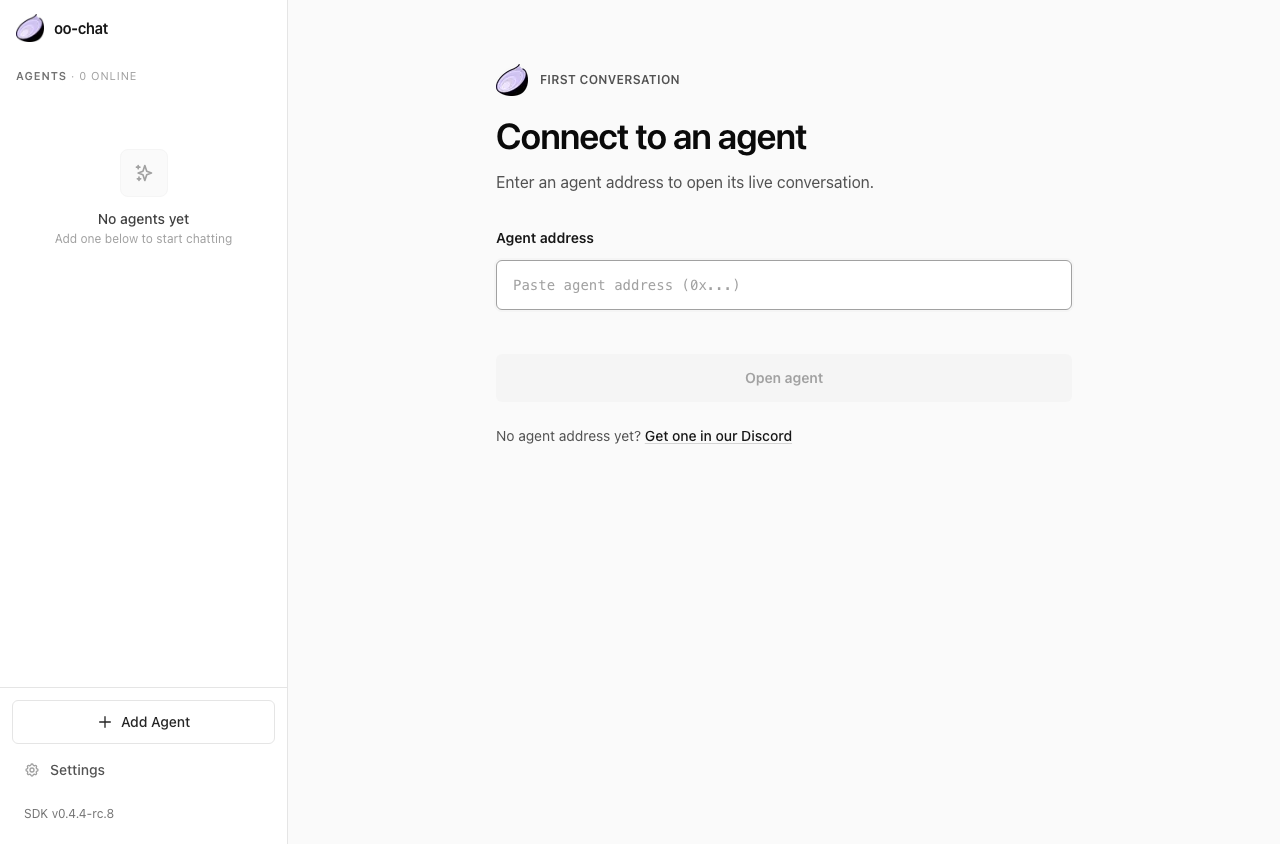
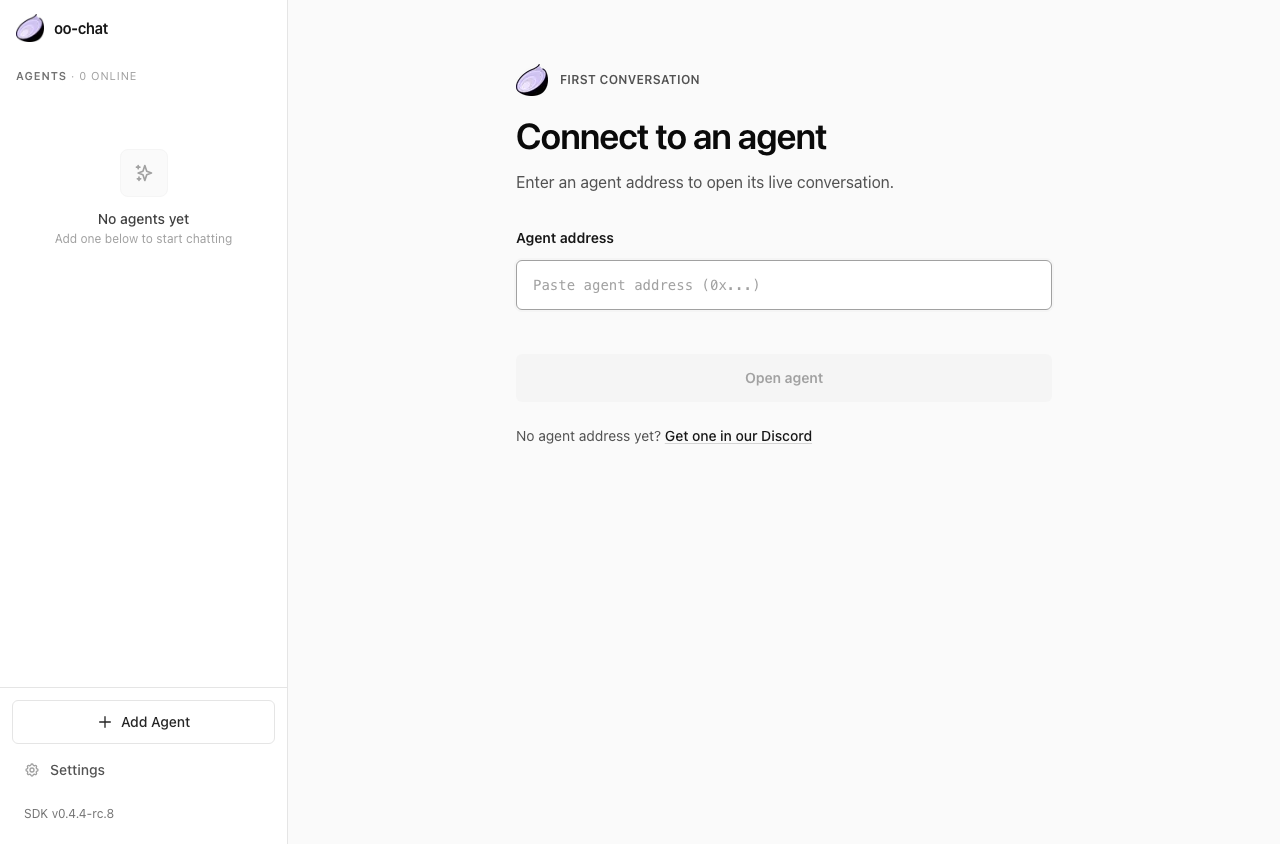
[oo-chat] Keep first-use layout simple

diff --git a/app/page.tsx b/app/page.tsx
@@ -42,8 +42,7 @@ export default function Home() {
   if (agents.length === 0) {
     return (
       <ChatLayout>
-        <div className="w-full flex-1 px-5 py-10 sm:px-10 sm:py-16">
-          <div className="mx-auto w-full max-w-xl">
+        <div className="mx-auto w-full max-w-xl flex-1 px-5 py-10 sm:py-16">
           <div className="flex items-center gap-3 text-xs font-semibold uppercase tracking-wide text-neutral-600">
             <Image src="/onion.png" alt="" width={32} height={32} className="rounded-lg" />
             First conversation
@@ -101,7 +100,6 @@ export default function Home() {
               </a>
             </p>
           </form>
-          </div>
         </div>
       </ChatLayout>
     )
@@ -110,8 +108,7 @@ export default function Home() {
   // Has agents - show agent picker
   return (
     <ChatLayout>
-      <div className="w-full flex-1 px-5 py-10 sm:px-10 sm:py-16">
-        <div className="mx-auto w-full max-w-xl">
+      <div className="mx-auto w-full max-w-xl flex-1 px-5 py-10 sm:py-16">
         <div className="flex items-center gap-3 text-xs font-semibold uppercase tracking-wide text-neutral-600">
           <Image src="/onion.png" alt="" width={32} height={32} className="rounded-lg" />
           Your agents
@@ -200,7 +197,6 @@ export default function Home() {
             Add another agent
           </button>
         )}
-        </div>
       </div>
     </ChatLayout>
   )
